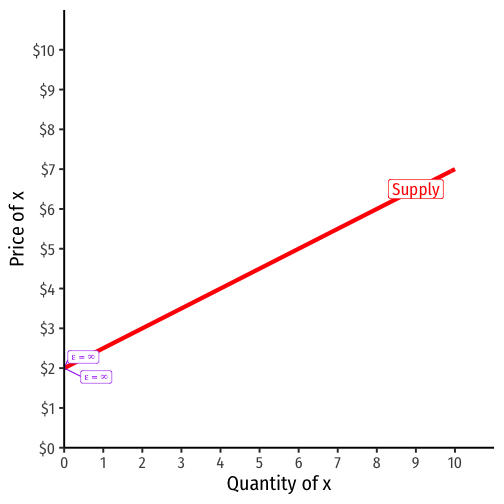
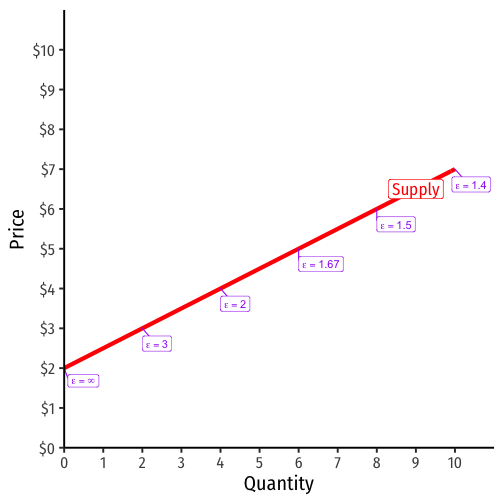
Update 2.6 slides

diff --git a/static/slides/2.6-slides.html b/static/slides/2.6-slides.html
@@ -969,7 +969,7 @@ An identical 100% price increase on an:
 
 ---
 
-# Price Elasticity of Supply Changes Along the Supply Curve
+# Price Elasticity of Supply Changes Along the Curve
 
 .pull-left[
 
@@ -1033,6 +1033,49 @@ An identical 100% price increase on an:
 ![:scale 100%](https://www.dropbox.com/s/uuajn64cnex5uru/elastic.jpg?raw=1)
 ]
 
+]
+
+---
+
+# Price Elasticity of Supply: Examples
+
+.pull-left[
+.center[
+[![](https://www.dropbox.com/s/97hh5tah2vl9rsd/corona_mask_import.png?raw=1)](https://reason.com/2020/03/31/america-could-import-countless-more-face-masks-if-federal-regulators-would-get-out-of-the-way/)
+]
+]
+
+.pull-right[
+.smallest[
+&lt;blockquote class="twitter-tweet"&gt;&lt;p lang="en" dir="ltr"&gt;A report by &lt;a href="https://twitter.com/PIIE?ref_src=twsrc%5Etfw"&gt;@PIIE&lt;/a&gt; found an N-95 respirator mask still faces a 7% U.S. tariff. &lt;br&gt;&lt;br&gt;Remaining US duties include&lt;br&gt;• 5% on hand sanitizer&lt;br&gt;• 4.5% on protective medical clothing&lt;br&gt;• 2.5% on goggles&lt;br&gt;• 6.4-8.3% on other medical headwear&lt;br&gt;&lt;br&gt;By &lt;a href="https://twitter.com/ABehsudi?ref_src=twsrc%5Etfw"&gt;@ABehsudi&lt;/a&gt; 1/&lt;a href="https://t.co/LcxE0FFlXO"&gt;https://t.co/LcxE0FFlXO&lt;/a&gt;&lt;/p&gt;&amp;mdash; Chad P. Bown (@ChadBown) &lt;a href="https://twitter.com/ChadBown/status/1252602275098492928?ref_src=twsrc%5Etfw"&gt;April 21, 2020&lt;/a&gt;&lt;/blockquote&gt; &lt;script async src="https://platform.twitter.com/widgets.js" charset="utf-8"&gt;&lt;/script&gt; 
+]
+]
+
+---
+
+# Price Elasticity of Supply: Examples
+
+.pull-left[
+.center[
+[![](../images/fdahandsanitizer.png)](https://reason.com/2020/04/02/the-fda-is-making-it-much-much-harder-for-distilleries-to-produce-hand-sanitizer/)
+]
+]
+
+.pull-right[
+.center[
+[![](../images/masksshortage.png)](https://www.flexport.com/blog/why-there-arent-enough-masks-and-how-to-get-more/)
+]
+]
+
+---
+
+# Price Elasticity of Supply: Examples
+
+.pull-left[
+.center[
+[![](../images/mrhousingelasticity.png)](https://marginalrevolution.com/marginalrevolution/2019/08/the-supply-of-housing-has-become-less-elastic.html)
+
+]
 ]
     </textarea>
 <style data-target="print-only">@media screen {.remark-slide-container{display:block;}.remark-slide-scaler{box-shadow:none;}}</style>
